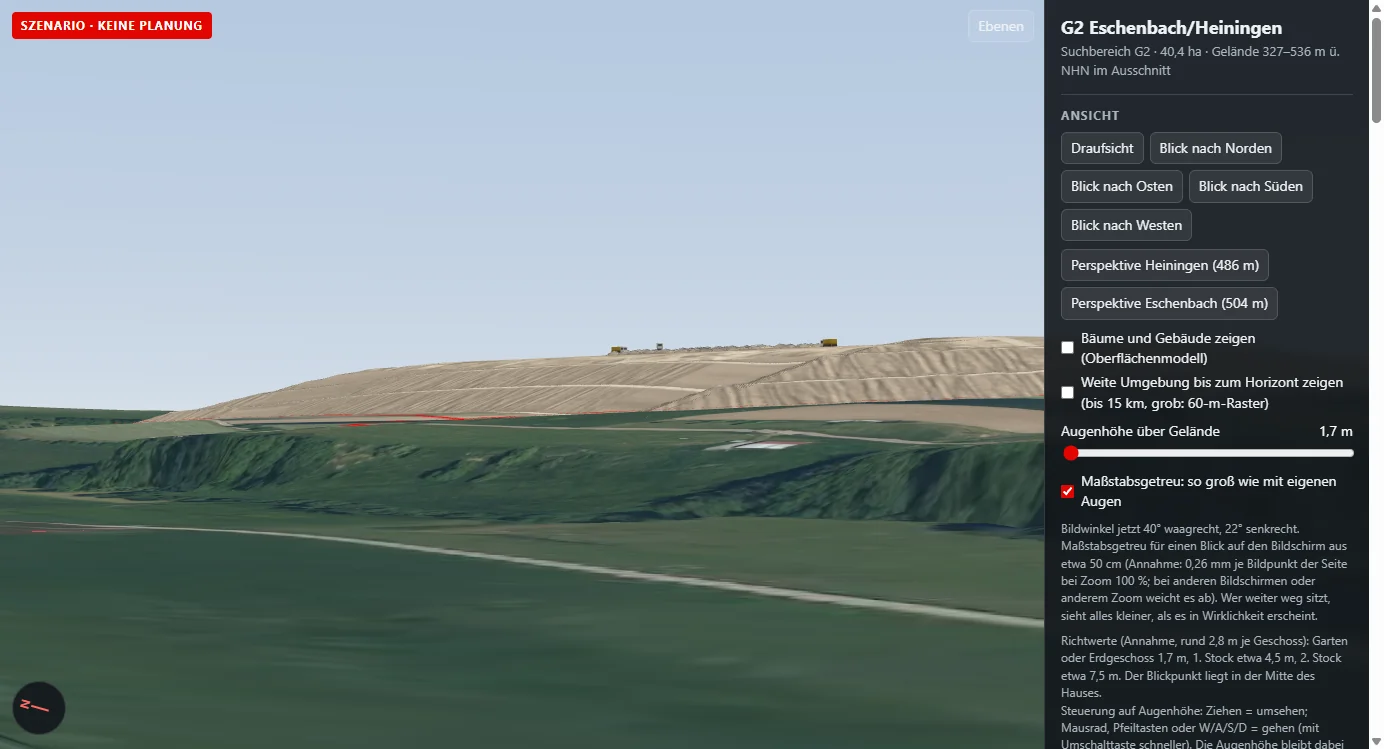
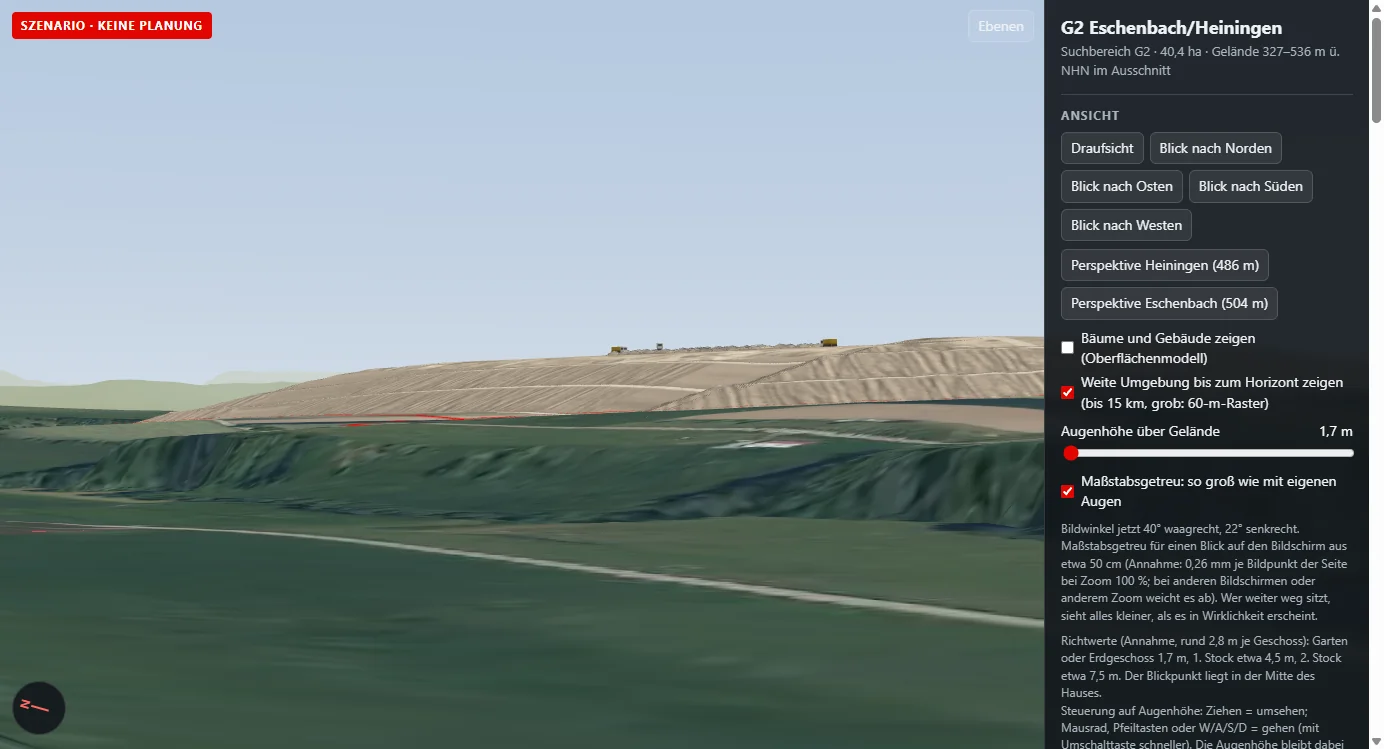
Screenshots with the wide surroundings up to the horizon
Both README screenshots now show the horizon ring ("Weite Umgebung", Copernicus DEM); captions say so.

diff --git a/README.md b/README.md
@@ -10,11 +10,11 @@ The export writes one HTML file (about 5.5 MB for G2) that opens offline from di
 
 ![Overview of G2 with the scenario heap, from the north, looking south](docs/screenshots/overview.webp)
 
-*Overview with the scenario heap ("Deponie mit Bermen und Kuppe"), trees and buildings from the surface model.*
+*Overview with the scenario heap ("Deponie mit Bermen und Kuppe"), trees and buildings from the surface model, and the wide surroundings up to the horizon ("Weite Umgebung", Copernicus DEM, 60-m grid).*
 
 ![Eye-level view from the nearest house in Heiningen, 486 m away](docs/screenshots/eye_level_heiningen.webp)
 
-*Eye level (1.7 m) from the nearest house in Heiningen, 486 m from the site, at true angular size for a screen 50 cm away. As the viewer does from the houses, trees and buildings are off at first, so the land is shown bare.*
+*Eye level (1.7 m) from the nearest house in Heiningen, 486 m from the site, at true angular size for a screen 50 cm away. As the viewer does from the houses, trees and buildings are off at first, so the land is shown bare. The wide surroundings are on.*
 
 ## What is real and what is assumed
 
